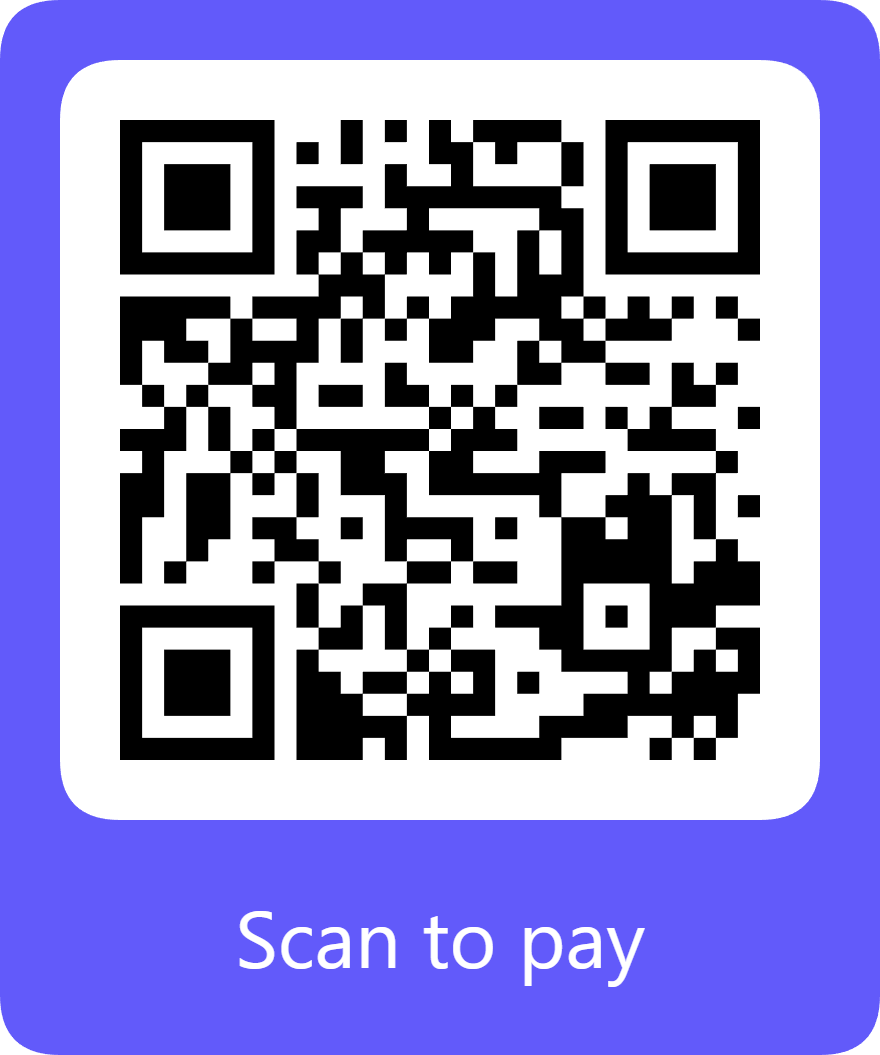
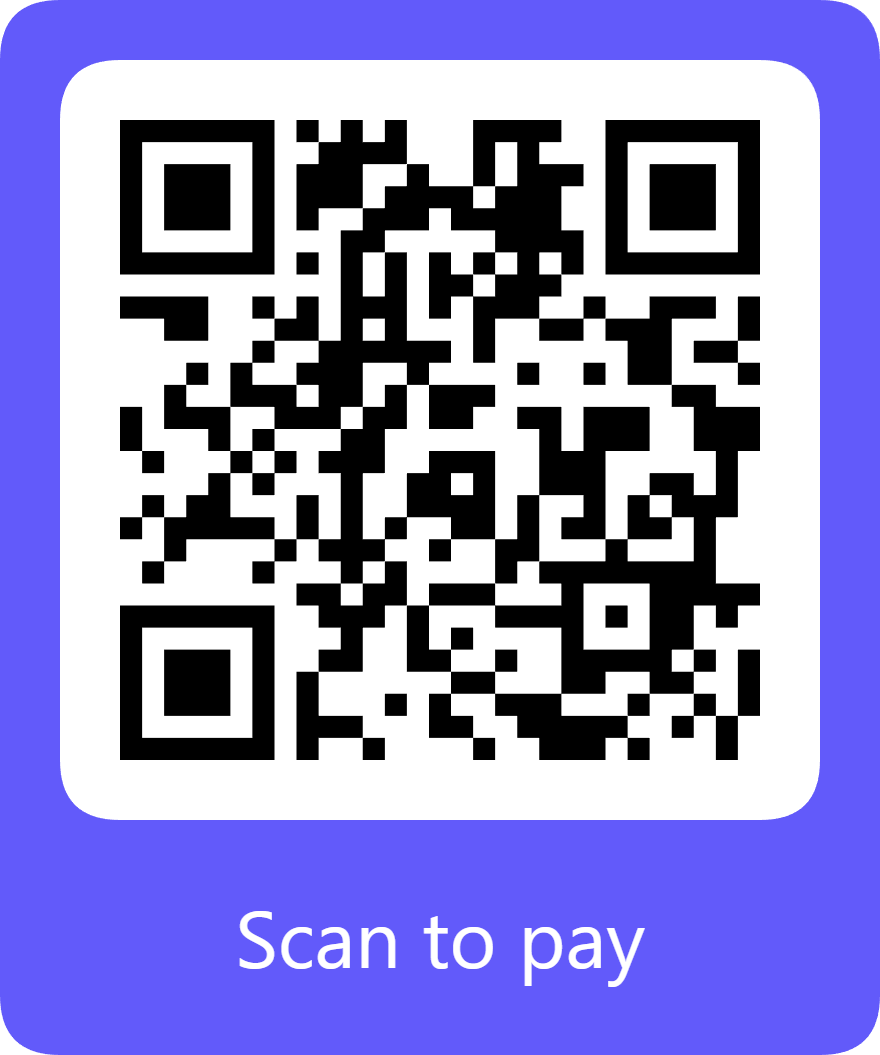
update pymt link to new

Changed region(s): [[0.1227, 0.091, 0.8898, 0.728]]

diff --git a/README.md b/README.md
@@ -10,7 +10,7 @@ Tools and applications built to support Muslims in their daily worship, learning
 
 ### ❤ Support or Donate
 
-[Click here to make a secure payment](https://buy.stripe.com/00w7sE3r81bV0tn43Fa7C00)
+[Click here to make a secure payment](https://buy.stripe.com/7sY14n1nQ55cadzbC06wE00)
 
 ### Scan QR Code to Donate
 

diff --git a/profile/README.md b/profile/README.md
@@ -72,7 +72,7 @@ Feel free to open issues or pull requests.
 
 ### ❤ Support or Donate
 
-[Click here to make a secure payment](https://buy.stripe.com/00w7sE3r81bV0tn43Fa7C00)
+[Click here to make a secure payment](https://buy.stripe.com/7sY14n1nQ55cadzbC06wE00)
 
 ### Scan QR Code to Donate
 
